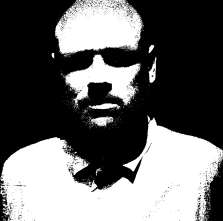
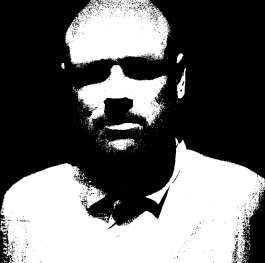
genesis collection updates

diff --git a/src/components/Collection.tsx b/src/components/Collection.tsx
@@ -3,7 +3,7 @@ import { Link } from "react-router-dom";
 import QmRft7BBYvJLdVUmYRw9stoUAaomtvzxUL8n5JLqTCSMWj from "../assets/QmRft7BBYvJLdVUmYRw9stoUAaomtvzxUL8n5JLqTCSMWj.jpeg";
 import QmX6mLXAv3TgBBsP5Ahjiz9R3zV3sid2DnXQLsjNuo1vJ1 from "../assets/QmX6mLXAv3TgBBsP5Ahjiz9R3zV3sid2DnXQLsjNuo1vJ1.jpeg";
 import QmPgdPxBpeMaWpUzjxxV4boeB9P4nC63zApn98TSn7MPoX from "../assets/QmPgdPxBpeMaWpUzjxxV4boeB9P4nC63zApn98TSn7MPoX.jpeg";
-import founder from "../assets/founder.jpg";
+import founder from "../assets/founder.png";
 // import QmQDUgmJdguCMhK9NVvqWdYpTnXjDDZhmA5E7Di2U6BgVJ from "../assets/QmQDUgmJdguCMhK9NVvqWdYpTnXjDDZhmA5E7Di2U6BgVJ.jpeg";
 import icon0 from "../assets/icon0.png";
 import icon1 from "../assets/icon1.png";
@@ -75,17 +75,48 @@ const Collection = () => {
       </div>
 
 
-<div className="relative max-w-lg mx-auto md:max-w-2xl sm:mt-12 min-w-0 break-words gap-24 bg-black w-full mb-6 shadow-lg rounded-xl mt-4 text-yellow-75 flex flex-row">
+<div className="relative sm:mt-12 min-w-0 break-words gap-0 bg-black w-full mb-6 shadow-lg rounded-xl mt-4 text-yellow-75 flex flex-col lg:flex-row content-center">
 
-      <div className="px-0 flex flex-col sm:flex-row">
+
+
+
+
+
+
+
+
+
+
+
+
+
+
+
+
+
+
+
+
+
+
+
+
+
+
+
+
+
+
+
+      <div className="px-0 flex flex-col sm:flex-row w-full lg:w-2/3">
 
         <div className="flex flex-wrap justify-center flex-col">
           
           <div className="mr-auto ml-auto mt-0 mb-0 ml-0 gap-2 flex w-auto flex-col mx-0 h-auto items-center">
 
-            <img src={founder} alt="founder_pic" className="rounded-full h-auto"/>
+            <img src={founder} alt="founder_pic" className="rounded-full h-auto w-lg lg:w-md"/>
 
-            <div className="w-full text-center mt-0 opacity-0 h-0">
+            <div className="w-full text-center mt-0 opacity-0 h-0 md:ml-12">
 
                 <div className="flex justify-center lg:pt-4 pt-8 pb-0">
                     <div className="p-3 text-center">
@@ -107,9 +138,9 @@ const Collection = () => {
         
       </div>
 
-      <div className="mr-auto mt-0 mb-0 ml-0 gap-2 flex flex-col mx-0 h-auto items-center">
+      <div className="mr-auto mt-0 mb-0 ml-0 gap-2 flex flex-col mx-0 h-auto items-center lg:items-left">
 
-        <div className="w-full px-4">
+        <div className="w-full lg:w-2/3 lg:px-0">
 
           <div className="pl-0 gap-0 flex flex-row items-center">
 
@@ -123,29 +154,21 @@ const Collection = () => {
 
           </div>
 
+          <p className="font-light leading-relaxed text-slate-600 mb-4 text-justify text-xs ">   Bai-ee is a House Dj/producer, Live Performance Act and Record Label Owner based in Chicago. His Genesis Collection consists of 4 original tracks available for the first time as collectible music. Customize each track fro your own performance within within these interactive Music OBJKTs.</p>
 
+          <div className="pl-0 gap-1 flex flex-row lg:content-left">
+            <a href="https://objkt.com/asset/hicetnunc/612561"  target="_blank" rel="noreferrer" className="font-mathias bg-yellow-75 w-auto text-center px-4 py-1 text-black text-xs rounded-md hover:opacity-50">
+              Website
+            </a>
+            <a href="https://objkt.com/asset/hicetnunc/612561"  target="_blank" rel="noreferrer" className="font-mathias bg-yellow-75 w-auto text-center px-4 py-1 text-black text-xs rounded-md hover:opacity-50">
+              Twitter
+            </a>
+            <a href="https://objkt.com/asset/hicetnunc/612561"  target="_blank" rel="noreferrer" className="font-mathias bg-yellow-75  w-auto text-center px-4  py-1 text-black text-xs rounded-md hover:opacity-50">
+              Discogs
+            </a>
+          </div>
 
-
-
-
-
-
-    <p className="font-light leading-relaxed text-slate-600 mb-4 text-justify text-xs ">   Bai-ee is a House Dj/producer, Live Performance Act and Record Label Owner based in Chicago. His Genesis Collection consists of 4 original tracks available for the first time as collectible music. Customize each track fro your own performance within within these interactive Music OBJKTs.</p>
-
-
-    <div className="pl-0 gap-1 flex flex-row">
-              <a href="https://objkt.com/asset/hicetnunc/612561"  target="_blank" rel="noreferrer" className="font-mathias bg-yellow-75 w-auto text-center px-4 py-1 text-black text-xs rounded-md hover:opacity-50">
-                Website
-              </a>
-              <a href="https://objkt.com/asset/hicetnunc/612561"  target="_blank" rel="noreferrer" className="font-mathias bg-yellow-75 w-auto text-center px-4 py-1 text-black text-xs rounded-md hover:opacity-50">
-                Twitter
-              </a>
-              <a href="https://objkt.com/asset/hicetnunc/612561"  target="_blank" rel="noreferrer" className="font-mathias bg-yellow-75  w-auto text-center px-4  py-1 text-black text-xs rounded-md hover:opacity-50">
-                Discogs
-              </a>
-            </div>
-
-</div>
+        </div>
 
 
 
@@ -156,37 +179,23 @@ const Collection = () => {
 
 
       </div>
-</div>
 
 
-
-
-
-
-
-
-
-
-     <div className="bg-black mx-0 mb-4 w-auto rounded-sm px-0 mt-8">
-
-
-
-
-
-
+      <div className="bg-black mx-0 mb-4 w-auto rounded-sm px-0 mt-24 lg:mt-8">
+      
       {/* Players */}
       {/* <div className="grid md:grid-cols-3 gap-x-6 lg:gap-x-12"> */}
-      <div className="grid grid-cols-1 gap-6 mx-0 sm:grid-cols-1 md:grid-cols-2 max-w-screen-xl hover:scale-75 h-auto">
+      <div className="grid grid-cols-1 gap-6 mx-0 max-w-screen-xl hover:scale-75 h-auto">
 
       {/* Player 1 */}
 
       <div className="mb-0 lg:mb-0 border-5 border-yellow-75 ">
       {/* <div className="bg-white block rounded-lg shadow-lg">  */}
-        <div className="text-yellow-75 h-24 sm:h-28 md:h-96 border-2 border-yellow-75 flex flex-row rounded-lg md:flex-col items-center font-mathias justify-evenly py-0 px-0 md:p-4 bg-transparent player1">
+        <div className="text-yellow-75 h-24 sm:h-28 border-0 border-yellow-75 flex flex-row rounded-lg items-center font-mathias justify-evenly py-0 px-0 md:p-4 bg-transparent player1">
           {/* <img alt="icon0" className="w-full h-auto"/> */}
-          <img src={et01} alt="icon1" className="w-20 md:w-auto md:h-3/4 p-0 ml-1 sm:ml-10 md:ml-0 shadow-2xl rounded-md"/>
+          <img src={et01} alt="icon1" className="w-20 p-0 ml-1 sm:ml-10 md:ml-0 shadow-2xl rounded-md"/>
 
-          <div className="flex-row flex m-0 w-96 justify-around md:mt-4">
+          <div className="flex-row flex m-0 w-96 justify-around md:mt-0">
           <div className="text-left w-auto pl-0">
             <div>{musicTracks[0].trackName}</div>
             <div>{musicTracks[0].artistName}</div>
@@ -289,6 +298,23 @@ const Collection = () => {
 
       </div>     
     </div>
+
+
+
+
+
+</div>
+
+
+
+
+
+
+
+
+
+
+     
     </section>
   );
 };

diff --git a/src/App.css b/src/App.css
@@ -151,12 +151,24 @@ width: 100%;
 
 /* Media player style overwrite start */
 
+.rhap_stacked .rhap_controls-section {
+
+  margin-top:0 !important
+}
+
+.rhap_main-controls-button {
+
+  margin:0 !important
+}
+
 .rhap_container {
   box-shadow: none !important;
   padding: 0px !important;
   width:40px !important;
   height:40px !important;
   border-radius: 27px !important;
+  margin-top:auto;
+  margin-bottom:auto;
   
   /* margin-top: 12px !important; */
   /* padding-left: -3px !important; */
